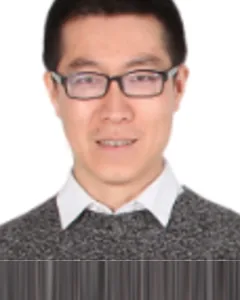
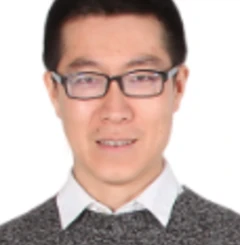
Portraits show the whole head in every frame
The team photos are 240x300 with the head at the top edge and a smeared
stretch artefact in the bottom 15%. Wide frames (style setting cards,
member cards, the onboarding team, meeting tiles, the profile header)
cropped them with object-cover and a 12% or 26% offset, which cut the
crown and the chin at every size.

- The photos lose the smeared band (240x245, PNG and WebP).
- Wide frames show the whole photo (object-contain); its white
  background disappears into the card's backdrop through
  mix-blend-multiply. Round and square avatars keep cover from the top.
- The four offset tokens are gone.
- tests/e2e/portraits.spec.ts checks every visible actor photo on the
  style cards, board, profile and 1:1 at 1440 and on a portrait tablet:
  crown to chin and the face must show. It fails on the old crop.

Claude-Session: https://claude.ai/code/session_01AfN768dBy44rtAyLPRNbrg

diff --git a/tests/e2e/portraits.spec.ts b/tests/e2e/portraits.spec.ts
@@ -1,0 +1,48 @@
+import { expect, test, type Page } from '@playwright/test';
+import { croppedPortraits } from './fixtures/portraitFit';
+
+/**
+ * Every actor portrait shows the whole head, crown to chin, in whatever frame it sits: the style cards, the board,
+ * the profile and the 1:1, on a laptop and on a tablet held upright. Wide frames show the whole photo, whose white
+ * background disappears into the card through mix-blend-multiply.
+ */
+async function setStyles(page: Page) {
+  const groups = page.getByRole('radiogroup', { name: /^Leadership style for/ });
+  await expect(groups.first()).toBeVisible({ timeout: 20000 });
+  for (const g of await groups.all()) await g.getByRole('radio').nth(1).click();
+  await page.getByRole('button', { name: 'Review and confirm' }).click();
+  await page.getByRole('dialog').getByRole('button', { name: 'Confirm styles' }).click();
+}
+
+async function expectWholeHeads(page: Page, least: number) {
+  await expect.poll(() => page.locator('img[src*="/assets/npc/"]').evaluateAll(xs => xs.filter(x => (x as HTMLImageElement).complete && x.getBoundingClientRect().width > 1).length)).toBeGreaterThanOrEqual(least);
+  expect(await croppedPortraits(page)).toEqual([]);
+}
+
+for (const [width, height, touch] of [[1440, 900, false], [834, 1194, true]] as const) {
+  test.describe(`${width}`, () => {
+    test.use({ viewport: { width, height }, hasTouch: touch });
+
+    test('style cards, the board, the profile and the 1:1 show whole heads', async ({ page }) => {
+      await page.goto('/?start=board');
+      await expect(page.getByRole('radiogroup', { name: /^Leadership style for/ }).first()).toBeVisible({ timeout: 20000 });
+      await expectWholeHeads(page, 10);
+      await setStyles(page);
+      await expectWholeHeads(page, 10);
+      await page.getByRole('button', { name: 'Dismiss outcome' }).click();
+      await expectWholeHeads(page, 10);
+      await page.getByText('Kent Goldberg', { exact: true }).first().click();
+      await page.getByRole('button', { name: 'Open profile for Kent Goldberg' }).or(page.getByRole('tab', { name: 'Profile' })).first().click();
+      await expectWholeHeads(page, 11);
+      await page.goto('/?start=board');
+      await setStyles(page);
+      await page.getByRole('button', { name: 'Dismiss outcome' }).click();
+      await page.getByText('Kent Goldberg', { exact: true }).first().click();
+      await page.getByRole('button', { name: /Meet face to face/ }).or(page.getByRole('radio', { name: /Meet face to face/ })).first().click();
+      await page.getByRole('radio', { name: /Energize the person/ }).click();
+      await page.getByRole('button', { name: /Confirm and start/ }).click();
+      await expect(page.getByRole('textbox', { name: 'Your reply' })).toBeVisible({ timeout: 15000 });
+      await expectWholeHeads(page, 1);
+    });
+  });
+}

diff --git a/src/styles/tokens.generated.css b/src/styles/tokens.generated.css
@@ -583,7 +583,6 @@
   --il-liveshell-meeting-tile-glow: 0 0 0 2px var(--il-color-liveshell-speaking);
   --il-liveshell-meeting-tile-transition: border-color var(--il-duration-base) ease, box-shadow var(--il-duration-base) ease;
   --il-liveshell-meeting-tile-overlay: linear-gradient(180deg, transparent 55%, var(--il-color-liveshell-tile-shade));
-  --il-liveshell-meeting-tile-position: center 15%;
   --il-liveshell-sponsor-fill: linear-gradient(var(--il-color-canvas-navy-800),var(--il-color-canvas-navy-800));
   --il-liveshell-sponsor-funnel-columns: 110px 1fr 54px;
   --il-liveshell-email-leading: 1.65;
@@ -595,8 +594,6 @@
   --il-member-portrait-strained: var(--il-fill-portrait-warm);
   --il-member-portrait-away: var(--il-fill-portrait-away);
   --il-member-portrait-overlay: linear-gradient(180deg, transparent 50%, var(--il-color-member-portrait-shade) 100%);
-  --il-member-portrait-position: center 12%;
-  --il-member-portrait-position-compact: center 26%;
   --il-member-card-shadow: none;
   --il-member-card-shadow-selected: 0 0 0 1px var(--il-color-accent-default);
   --il-member-card-transition: translate var(--il-duration-base) var(--il-easing-settle), box-shadow var(--il-duration-base) var(--il-easing-brand), opacity var(--il-duration-base) var(--il-easing-brand);
@@ -629,7 +626,6 @@
   --il-onboarding-how-transition: transform var(--il-duration-base) ease, border-color var(--il-duration-base) ease;
   --il-onboarding-how-art-calm: linear-gradient(var(--il-color-canvas-sky-100),var(--il-color-canvas-sky-100));
   --il-onboarding-team-columns: minmax(0,1fr) 380px;
-  --il-onboarding-team-portrait-position: center 12%;
   --il-onboarding-team-card-lift: translateY(-3px);
   --il-onboarding-team-card-transition: transform 200ms ease;
   --il-onboarding-profile-enter: ilIn 240ms ease;
@@ -704,8 +700,6 @@
   --il-stylesetting-intro-columns: minmax(0,1.1fr) repeat(4,minmax(0,1fr));
   --il-stylesetting-intro-leading: 1.4;
   --il-stylesetting-portrait-overlay: linear-gradient(180deg, transparent 50%, var(--il-color-stylesetting-portrait-shade));
-  --il-stylesetting-portrait-position: center 12%;
-  --il-stylesetting-portrait-position-compact: center 26%;
   --il-stylesetting-list-columns: minmax(220px,1.4fr) minmax(170px,1fr) minmax(170px,1fr) repeat(4,96px) minmax(180px,1.1fr);
   --il-stylesetting-list-lead-lens: minmax(160px,1.4fr) minmax(110px,1fr) minmax(110px,1fr);
   --il-stylesetting-list-radio-lens: minmax(52px,96px);

diff --git a/tests/e2e/fixtures/portraitFit.ts b/tests/e2e/fixtures/portraitFit.ts
@@ -1,0 +1,35 @@
+import type { Page } from '@playwright/test';
+
+/**
+ * Which actor portraits on screen crop the person. A portrait fits when the whole head shows: the photo's top
+ * row (the crown), down to 80% of its height (the chin), across its middle 40% (the face). Worked out from each
+ * image's frame, object-fit and object-position, so it holds for any frame size and any photo size.
+ */
+export async function croppedPortraits(page: Page): Promise<string[]> {
+  return page.evaluate(`(() => {
+    const out = [];
+    for (const img of document.querySelectorAll('img[src*="/assets/npc/"]')) {
+      if (!img.complete || !img.naturalWidth) continue;
+      const box = img.getBoundingClientRect(), cs = getComputedStyle(img);
+      if (box.width < 2 || box.height < 2 || cs.visibility === 'hidden' || cs.display === 'none') continue;
+      const w = img.naturalWidth, h = img.naturalHeight, W = box.width, H = box.height;
+      const s = cs.objectFit === 'contain' ? Math.min(W / w, H / h) : cs.objectFit === 'cover' ? Math.max(W / w, H / h) : NaN;
+      const [px, py] = cs.objectPosition.split(' ');
+      const at = (v, free) => v.endsWith('%') ? free * parseFloat(v) / 100 : parseFloat(v);
+      const x0 = Number.isNaN(s) ? 0 : at(px, W - w * s), y0 = Number.isNaN(s) ? 0 : at(py, H - h * s);
+      const k = Number.isNaN(s) ? 1 : s;
+      const sx = Number.isNaN(s) ? W / w : k, sy = Number.isNaN(s) ? H / h : k;
+      const top = Math.max(0, -y0 / sy), bottom = Math.min(h, (H - y0) / sy);
+      const left = Math.max(0, -x0 / sx), right = Math.min(w, (W - x0) / sx);
+      const cut = [];
+      if (top > 1) cut.push('crown ' + Math.round(top / h * 100) + '%');
+      if (bottom < h * 0.8) cut.push('chin, shows ' + Math.round(bottom / h * 100) + '% of the height');
+      if (left > w * 0.3 || right < w * 0.7) cut.push('face sides');
+      if (cut.length) {
+        const where = img.closest('[aria-label],[data-member-id],[role=dialog],section,li')?.getAttribute('aria-label') || '';
+        out.push(img.src.split('/').pop() + ' ' + Math.round(W) + 'x' + Math.round(H) + ' ' + cs.objectFit + ' ' + cs.objectPosition + ' [' + cut.join(', ') + '] ' + where.slice(0, 50));
+      }
+    }
+    return out;
+  })()`) as Promise<string[]>;
+}

diff --git a/src/components/onboarding/TeamStep.tsx b/src/components/onboarding/TeamStep.tsx
@@ -52,7 +52,7 @@ export function TeamStep({ members, read, open, readsNeeded, startLabel, onOpen,
                 aria-label={t('onboarding.team.member.aria', { name: m.name, stage: m.stage, read: isRead ? 'yes' : 'no' })}
                 className={`flex cursor-pointer flex-col overflow-hidden rounded-4 border-2 border-solid bg-surface-card p-0 text-start text-fg-primary [transition:var(--il-onboarding-team-card-transition)] hover:[transform:var(--il-onboarding-team-card-lift)] ${FOCUS} ${open === m.id ? 'border-accent-secondary' : 'border-line-default'}`}>
                 <div className="relative h-37.5 w-full bg-(image:--il-fill-portrait-calm) short:h-30 tablet:h-28">
-                  {m.img && <img src={m.img} alt="" className="size-full object-cover object-(--il-onboarding-team-portrait-position) mix-blend-multiply" />}
+                  {m.img && <img src={m.img} alt="" className="size-full object-contain mix-blend-multiply" />}
                   {isRead && <span className="absolute top-2 end-2 flex min-h-5.5 items-center rounded-4 bg-brand-mint-green px-2 text-12 font-600 text-button-on-solid">{t('onboarding.team.readBadge')}</span>}
                 </div>
                 <div className="flex flex-col px-3 py-2.5">

diff --git a/src/components/member/MemberCard.tsx b/src/components/member/MemberCard.tsx
@@ -138,7 +138,7 @@ export function MemberCard(props: MemberCardProps) {
     >
       <button type="button" aria-pressed={selected} aria-label={aria} aria-disabled={unavailable || undefined} onClick={e => { e.stopPropagation(); onSelect(); }} className="il-select sr-only" />
       <div className={`relative h-29.5 overflow-hidden rounded-t-4 short:h-21 shorter:h-17 ${backdrop(mood, away)}`}>
-        <img src={img} alt="" className={`absolute inset-0 size-full object-cover object-(--il-member-portrait-position) mix-blend-multiply short:object-(--il-member-portrait-position-compact) ${away ? 'grayscale' : ''}`} />
+        <img src={img} alt="" className={`absolute inset-0 size-full object-contain mix-blend-multiply ${away ? 'grayscale' : ''}`} />
         <div className="absolute inset-0 bg-(image:--il-member-portrait-overlay)" />
         {selected && <span aria-hidden="true" className="absolute top-2 start-2 flex size-6 items-center justify-center rounded-round bg-(image:--il-fill-brand) text-button-on-solid"><Check /></span>}
         <div className="absolute top-2 end-2 flex gap-1">

diff --git a/src/components/liveshell/MeetingStage.tsx b/src/components/liveshell/MeetingStage.tsx
@@ -38,7 +38,7 @@ export function MeetingStage({ attendees, caption, spokenLine, onCallOn }: Meeti
           return (
             <div key={a.id} role="listitem"
               className={`relative aspect-4/3 overflow-hidden rounded-4 border-3 border-solid bg-(image:--il-fill-portrait-calm) [transition:var(--il-liveshell-meeting-tile-transition)] ${a.speaking ? 'border-liveshell-speaking shadow-(--il-liveshell-meeting-tile-glow)' : 'border-transparent'}`}>
-              {a.img && <img src={a.img} alt="" className="size-full object-cover object-(--il-liveshell-meeting-tile-position) mix-blend-multiply" />}
+              {a.img && <img src={a.img} alt="" className="size-full object-contain mix-blend-multiply" />}
               <div className="absolute inset-0 bg-(image:--il-liveshell-meeting-tile-overlay)" />
               <span className="absolute bottom-2 start-2.5 text-13 font-600 text-liveshell-on-tile">{name}</span>
               {a.raisedHand && (

diff --git a/src/components/stylesetting/StyleSettingCard.tsx b/src/components/stylesetting/StyleSettingCard.tsx
@@ -68,7 +68,7 @@ export function StyleSettingCard({ member: m, periodUnit, onStyle, onRationale, 
     <div role="group" aria-label={t('stylesetting.member.aria', { name: m.name, title: m.title, mood })} data-member-id={m.id}
       className="flex min-w-0 flex-col gap-2">
       <div className={`relative h-32 overflow-hidden short:h-28 shorter:h-20 ${portraitBackdrop(m.away)}`}>
-        <img src={m.img} alt="" className={`size-full object-cover object-(--il-stylesetting-portrait-position) mix-blend-multiply short:object-(--il-stylesetting-portrait-position-compact) ${m.away ? 'grayscale' : ''}`} />
+        <img src={m.img} alt="" className={`size-full object-contain mix-blend-multiply ${m.away ? 'grayscale' : ''}`} />
       </div>
       <div className="flex min-w-0 flex-col">
         <b className="truncate text-14 font-600 text-large:whitespace-normal">{m.name}</b>

diff --git a/src/components/profile/ProfilePanel.tsx b/src/components/profile/ProfilePanel.tsx
@@ -157,7 +157,7 @@ export function ProfileSummary(props: ProfilePanelProps & { compact?: boolean })
     <>
     <div className={`flex gap-4.5 ${compact ? 'items-center pb-1' : 'flex-col gap-4 px-11 pt-6 pb-1'}`}>
       <div className={`${compact ? 'size-20 rounded-round' : 'h-79 w-full short:h-60'} flex-none overflow-hidden ${backdrop(mood, away)}`}>
-        <img src={img} alt="" className={`size-full object-cover object-top mix-blend-multiply ${away ? 'grayscale' : ''}`} />
+        <img src={img} alt="" className={`size-full ${compact ? 'object-cover object-top' : 'object-contain'} mix-blend-multiply ${away ? 'grayscale' : ''}`} />
       </div>
       <div className="flex flex-col gap-0.5">
         <h2 className={`m-0 font-400 ${compact ? 'text-24 font-600' : 'font-display text-36 leading-(--il-canvas-leading-heading)'}`}>{name}</h2>
